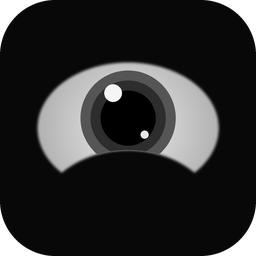
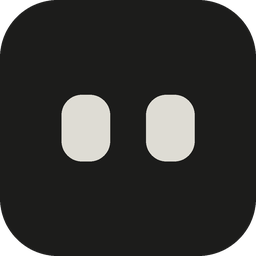
Augen: sichtbares Verschmelzen mit Wurf-Flug, Sonne beim Wetter, = beim Rechnen; gedämpfter, schlichter; neues App-Symbol

diff --git a/index.html b/index.html
@@ -618,7 +618,7 @@
   body.wurf #auge, body.klein.wurf #auge { position:fixed; z-index:20; top:90px; left:50%; width:min(320px,70vw); transform:translateX(-50%); }
   body.wurf::before { display:block; background:var(--bg); opacity:.92; }
   @media (max-width:480px) { #hero #auge { width:150px; } }
-  #wurfanzeige { color:var(--fg); top:282px; font-size:22px; font-weight:600; letter-spacing:0; }
+  #wurfanzeige { color:var(--fg); top:300px; font-size:22px; font-weight:600; letter-spacing:0; }
 </style>
 
 </head>
@@ -1258,7 +1258,7 @@
           if (!zeile.trim()) continue;
           const ev = JSON.parse(zeile);
           if (ev.typ === "start") aktuellerChat = ev.chat_id;
-          else if (ev.typ === "status" && (ev.text === "wetter" || ev.text === "rechnet")) { /* kein Internet-Suchen: kein Kasten */ }
+          else if (ev.typ === "status" && (ev.text === "wetter" || ev.text === "rechnet")) { window.hermesSkill = ev.text; window.hermesDenkt = false; }  // kein Internet-Suchen: kein Kasten, die Augen zeigen das Werkzeug
           else if (ev.typ === "status" && ev.detail !== undefined) {
             schritte++; window.hermesSucht = true;
             statusText(ev.text === "liest" ? "Liest Seiten" : "Sucht im Internet");
@@ -1280,6 +1280,7 @@
             statusText("Denkt nach");
           } else if (ev.typ === "token") {
             window.hermesDenkt = false; window.hermesSucht = false;
+            if (window.hermesSkill) setTimeout(() => { window.hermesSkill = null; }, 900);  // Symbol kurz stehen lassen
             roh += ev.text;
             if (aktiveKette) aktiveKette.rein(ev.text);
             else { inhalt.classList.remove("typing"); zeige(); }
@@ -1312,6 +1313,7 @@
       if (roh) aktualisiere(huelle, roh); else inhalt.textContent = "";
     }
     window.hermesDenkt = false; window.hermesSucht = false;
+    if (window.hermesSkill) setTimeout(() => { window.hermesSkill = null; }, 900);
     beschaeftigt = false;
     sendeStatus();
     eingabe.focus();
@@ -1618,7 +1620,7 @@
   }));
 
   // ---------- Münze und Würfel im Auge ----------
-  const WURF_DAUER = 1900, WURF_ZEIGEN = 2200;  // ms: so lange fliegt es, so lange bleibt das Ergebnis stehen
+  const WURF_DAUER = 2100, WURF_ZEIGEN = 1800;  // ms: so lange fliegt es, so lange bleibt das Ergebnis stehen
   const wurfAnzeige = document.getElementById("wurfanzeige");
   let wurfUhr = [];
   function wurfStarten(art, ergebnis) {
@@ -2017,20 +2019,19 @@
   document.querySelectorAll(".kachel[data-design]").forEach((k) => k.addEventListener("click", () => setzeDesign(k.dataset.design)));
 
   // ---------- Roboter-Augen ----------
-  // Zwei runde Augen als "Gesicht" von Atlas (in der App und später vorne auf der Box). Jede Stimmung setzt Zielwerte,
-  // die Augen gleiten schnell und weich dorthin:
-  //   ruhe    – blinzelt ab und zu, schaut kurz umher, freut sich manchmal
-  //   hoert   – Augen groß und wach, leichtes Pulsieren
-  //   denkt   – schauen nach oben zur Seite, etwas schmaler, ein Auge kleiner (nachdenklich)
-  //   sucht   – schauen schnell hin und her
-  //   spricht – wippen im Rhythmus, leicht fröhlich
-  //   froh    – kurz nach einer Antwort: "^ ^"
-  //   timer   – die Augen verschmelzen zu einer Uhr, deren Restzeit im Uhrzeigersinn abläuft
-  //   wurf    – die Augen verschmelzen zur Münze oder zum Würfel, der geworfen wird, danach teilen sie sich wieder
+  // Zwei schlichte Augen als "Gesicht" von Atlas (in der App und später vorne auf der Box). Stimmungen:
+  //   ruhe    – blinzelt ab und zu, schaut kurz umher, freut sich manchmal ("^ ^")
+  //   hoert   – Augen groß und wach        denkt  – schauen nach oben zur Seite, etwas schmaler
+  //   sucht   – schauen schnell umher       spricht – wippen leicht
+  //   froh    – kurz nach einer Antwort "^ ^"
+  // Für Werkzeuge verschmelzen die Augen sichtbar zu einer Form und teilen sich danach wieder:
+  //   wurf    – Kugel -> Münze/Würfel, wird hochgeworfen, dreht sich und landet
+  //   timer   – Uhr, deren Restzeit im Uhrzeigersinn abläuft
+  //   wetter  – Sonne, die sich langsam dreht      rechnet – Gleichheitszeichen, das pulsiert
   (function () {
     const canvas = document.getElementById("auge");
     const c = canvas.getContext("2d");
-    const W = 320, H = 180, SKALA = 2;
+    const W = 320, H = 200, SKALA = 2;
     canvas.width = W * SKALA; canvas.height = H * SKALA;
     c.scale(SKALA, SKALA);
 
@@ -2046,23 +2047,28 @@
     platzieren();
     new MutationObserver(platzieren).observe(document.body, { attributes: true, attributeFilter: ["class"] });
 
-    let farbe = "#f2f1ec", leuchten = true;
+    // Gedämpftes Weiß mit leichtem Schein (nicht grell); im hellen Design dunkle Augen ohne Schein
+    let farbe = "#d9d7cf", schein = "rgba(255,255,255,.16)";
     window.augeFarbe = () => {
-      farbe = getComputedStyle(document.documentElement).getPropertyValue("--fg").trim() || farbe;
-      leuchten = document.documentElement.dataset.theme !== "hell";
+      const hell = document.documentElement.dataset.theme === "hell";
+      farbe = hell ? "#2b2a26" : "#d9d7cf"; schein = hell ? "transparent" : "rgba(255,255,255,.16)";
     };
     window.augeFarbe();
     const grund = () => getComputedStyle(document.body).backgroundColor;
 
     const ziel = { x: 0, y: 0 }, pos = { x: 0, y: 0 };
     let blinzelStart = -1000, naechstes = performance.now() + 2500;
-    let offen = 1, breite = 1, freude = 0, schief = 0, fusion = 0, naechsterUmblick = 0, naechsteFreude = performance.now() + 12000;
+    let offen = 1, breite = 1, freude = 0, schief = 0, naechsterUmblick = 0, naechsteFreude = performance.now() + 12000;
     const UMHER = [[-1, -.3], [1, -.2], [.7, .5], [-.7, .4], [0, -.6], [1, .1], [-1, .2]];
-    const VERSCHMELZEN = 220;  // ms, bis aus zwei Augen eins geworden ist
+    const REIN = 380, RAUS = 320;  // ms: so lange dauert das Verschmelzen und das Teilen
+    let fusionZiel = 0, fusionWechsel = -1e9, fusionVon = 0, form = "kreis";
     const mix = (a, b, f) => a + (b - a) * f;
+    const weich = (x) => x < 0.5 ? 4 * x * x * x : 1 - Math.pow(-2 * x + 2, 3) / 2;  // langsam - schnell - langsam
 
     function stimmung(t) {
       if (window.hermesWurf) return "wurf";
+      if (window.hermesSkill === "wetter") return "wetter";
+      if (window.hermesSkill === "rechnet") return "rechnet";
       if (window.hermesSucht) return "sucht";
       if (window.hermesSpricht) return "spricht";
       if (window.hermesDenkt) return "denkt";
@@ -2072,129 +2078,147 @@
       return "ruhe";
     }
 
-    function form(x, y, w, h, r) {
-      c.beginPath(); c.roundRect(x - w / 2, y - h / 2, w, h, Math.min(r, w / 2, h / 2));
-    }
+    function rr(x, y, w, h, r) { c.beginPath(); c.roundRect(x - w / 2, y - h / 2, w, h, Math.max(0, Math.min(r, w / 2, h / 2))); }
 
-    function bogen(cx, cy, w, h) {  // "^"
-      const f = (freude - 0.5) * 2;
-      c.lineWidth = w * 0.26; c.lineCap = "round"; c.strokeStyle = farbe;
+    function bogen(cx, cy, w) {  // "^"
+      const f = Math.min(1, (freude - 0.5) * 2);
+      c.lineWidth = w * 0.24; c.lineCap = "round"; c.strokeStyle = farbe;
       c.beginPath();
-      c.moveTo(cx - w * 0.42, cy + h * 0.12 * f + 6);
-      c.quadraticCurveTo(cx, cy - h * 0.42 * f, cx + w * 0.42, cy + h * 0.12 * f + 6);
+      c.moveTo(cx - w * 0.4, cy + 10 * f + 4);
+      c.quadraticCurveTo(cx, cy - 30 * f, cx + w * 0.4, cy + 10 * f + 4);
       c.stroke();
     }
 
-    function uhr(cx, cy) {
-      const tm = window.hermesTimer, rest = tm ? Math.max(0, (tm.ende - Date.now()) / tm.dauer) : 0;
-      c.lineWidth = 5; c.strokeStyle = farbe;
-      c.beginPath(); c.arc(cx, cy, 52, 0, Math.PI * 2); c.stroke();
-      if (rest > 0) {
-        c.fillStyle = farbe; c.beginPath(); c.moveTo(cx, cy);
-        c.arc(cx, cy, 42, -Math.PI / 2, -Math.PI / 2 + rest * Math.PI * 2); c.closePath(); c.fill();
-      }
-    }
-
     function wurfZeichnen(t, cx, cy) {
-      const w = window.hermesWurf, dauer = w.dauer - VERSCHMELZEN;
-      const p = Math.min(1, Math.max(0, (t - w.start - VERSCHMELZEN) / dauer)), brems = 1 - Math.pow(1 - p, 3);
-      c.save(); c.translate(cx, cy);
+      const w = window.hermesWurf, flug = w.dauer - REIN;
+      const p = Math.min(1, Math.max(0, (t - w.start - REIN) / flug));
+      const brems = 1 - Math.pow(1 - p, 3);
+      const hoehe = -Math.sin(Math.min(1, p / 0.8) * Math.PI) * 42;          // hoch und wieder runter
+      const landung = p > 0.8 ? Math.sin(((p - 0.8) / 0.2) * Math.PI) * -6 : 0; // kleiner Hüpfer beim Aufkommen
+      c.save(); c.translate(cx, cy + hoehe + landung);
       if (w.art === "muenze") {
-        const winkel = (1 - Math.pow(1 - p, 2)) * Math.PI * 9, drehung = Math.cos(winkel);
+        const drehung = Math.cos(brems * Math.PI * 9);
         c.scale(1, Math.max(0.06, Math.abs(drehung)));
-        c.fillStyle = farbe; c.beginPath(); c.arc(0, 0, 52, 0, Math.PI * 2); c.fill();
+        c.fillStyle = farbe; c.beginPath(); c.arc(0, 0, 46, 0, Math.PI * 2); c.fill();
         if (p > 0) {
           const seite = drehung < 0 ? w.ergebnis : w.ergebnis === "Kopf" ? "Zahl" : "Kopf";
-          c.shadowBlur = 0; c.fillStyle = grund();
+          c.shadowColor = "transparent"; c.fillStyle = grund();
           if (seite === "Kopf") {
-            c.beginPath(); c.arc(0, -12, 17, 0, Math.PI * 2); c.fill();
-            c.beginPath(); c.ellipse(0, 26, 28, 20, 0, 0, Math.PI * 2); c.fill();
+            c.beginPath(); c.arc(0, -11, 15, 0, Math.PI * 2); c.fill();
+            c.beginPath(); c.ellipse(0, 23, 25, 17, 0, 0, Math.PI * 2); c.fill();
           } else {
-            c.font = "bold 76px Inter Variable, Arial, sans-serif"; c.textAlign = "center"; c.textBaseline = "middle";
+            c.font = "600 66px Inter Variable, Arial, sans-serif"; c.textAlign = "center"; c.textBaseline = "middle";
             c.fillText("1", 0, 4);
           }
         }
       } else {
-        c.rotate(brems * Math.PI * 8);
-        c.fillStyle = farbe; c.beginPath(); c.roundRect(-45, -45, 90, 90, 16); c.fill();
+        c.rotate(brems * Math.PI * 6);
+        c.fillStyle = farbe; c.beginPath(); c.roundRect(-40, -40, 80, 80, 16); c.fill();
         if (p > 0) {
-          const a = 23, punkte = { 1: [[0, 0]], 2: [[-a, -a], [a, a]], 3: [[-a, -a], [0, 0], [a, a]],
+          const a = 20, punkte = { 1: [[0, 0]], 2: [[-a, -a], [a, a]], 3: [[-a, -a], [0, 0], [a, a]],
             4: [[-a, -a], [a, -a], [-a, a], [a, a]], 5: [[-a, -a], [a, -a], [0, 0], [-a, a], [a, a]],
             6: [[-a, -a], [a, -a], [-a, 0], [a, 0], [-a, a], [a, a]] };
-          c.shadowBlur = 0; c.fillStyle = grund();
-          (punkte[p >= 1 ? w.ergebnis : 1 + Math.floor(brems * 30) % 6] || []).forEach(([x, y]) => { c.beginPath(); c.arc(x, y, 9, 0, Math.PI * 2); c.fill(); });
+          c.shadowColor = "transparent"; c.fillStyle = grund();
+          (punkte[p >= 1 ? w.ergebnis : 1 + Math.floor(brems * 24) % 6] || []).forEach(([x, y]) => { c.beginPath(); c.arc(x, y, 8, 0, Math.PI * 2); c.fill(); });
         }
+      }
+      c.restore();
+    }
+
+    function symbol(art, t, cx, cy, auf) {  // auf: 0..1, das Symbol "ploppt" aus der Kugel heraus
+      const sk = 0.7 + 0.3 * auf;
+      c.save(); c.translate(cx, cy); c.scale(sk, sk); c.globalAlpha = auf;
+      c.fillStyle = farbe; c.strokeStyle = farbe; c.lineCap = "round";
+      if (art === "timer") {
+        const tm = window.hermesTimer, rest = tm ? Math.max(0, (tm.ende - Date.now()) / tm.dauer) : 0;
+        c.lineWidth = 5; c.beginPath(); c.arc(0, 0, 46, 0, Math.PI * 2); c.stroke();
+        if (rest > 0) { c.beginPath(); c.moveTo(0, 0); c.arc(0, 0, 36, -Math.PI / 2, -Math.PI / 2 + rest * Math.PI * 2); c.closePath(); c.fill(); }
+      } else if (art === "wetter") {
+        c.beginPath(); c.arc(0, 0, 26, 0, Math.PI * 2); c.fill();
+        c.rotate(t / 2400); c.lineWidth = 7;
+        for (let i = 0; i < 8; i++) { const w = i * Math.PI / 4; c.beginPath(); c.moveTo(Math.cos(w) * 38, Math.sin(w) * 38); c.lineTo(Math.cos(w) * 50, Math.sin(w) * 50); c.stroke(); }
+      } else if (art === "rechnet") {
+        const puls = 1 + Math.sin(t / 160) * 0.06;
+        c.scale(puls, 1);
+        rr(0, -15, 86, 18, 9); c.fill(); rr(0, 15, 86, 18, 9); c.fill();
       }
       c.restore();
     }
 
     function zeichne(t) {
       const s = stimmung(t);
-      if (t > naechstes && fusion < 0.05) {
+      const fusionNoetig = s === "wurf" || s === "timer" || s === "wetter" || s === "rechnet";
+      const fNow = () => fusionZiel ? Math.min(1, fusionVon + (t - fusionWechsel) / REIN) : Math.max(0, fusionVon - (t - fusionWechsel) / RAUS);
+      if ((fusionNoetig ? 1 : 0) !== fusionZiel) { fusionVon = fNow(); fusionZiel = fusionNoetig ? 1 : 0; fusionWechsel = t; }
+      if (fusionNoetig) form = s;
+      const roh = fNow(), f = weich(roh);
+
+      if (t > naechstes && f < 0.02) {
         blinzelStart = t; naechstes = t + 2600 + Math.random() * 3600;
         if (Math.random() < 0.15) naechstes = t + 220;  // manchmal doppelt blinzeln
       }
       const b = t - blinzelStart;
       const lid = b < 130 ? 1 - 0.92 * Math.sin((b / 130) * Math.PI) : 1;
 
-      let zOffen = 1, zBreite = 1, zFreude = 0, zSchief = 0, zFusion = 0;
+      let zOffen = 1, zBreite = 1, zFreude = 0, zSchief = 0;
       if (s === "sucht") {
         zOffen = 0.9;
         if (t > naechsterUmblick) {
           const z = UMHER[Math.floor(Math.random() * UMHER.length)];
-          ziel.x = z[0] * 34; ziel.y = z[1] * 14; naechsterUmblick = t + 300 + Math.random() * 300;
+          ziel.x = z[0] * 30; ziel.y = z[1] * 12; naechsterUmblick = t + 300 + Math.random() * 300;
         }
       } else if (s === "denkt") {
-        zOffen = 0.72; zSchief = 0.18; ziel.x = 22; ziel.y = -16 + Math.sin(t / 360) * 2;
+        zOffen = 0.72; zSchief = 0.18; ziel.x = 20; ziel.y = -14 + Math.sin(t / 360) * 2;
       } else if (s === "hoert") {
-        zOffen = 1.12 + Math.sin(t / 220) * 0.04; zBreite = 1.06; ziel.x = 0; ziel.y = 0;
+        zOffen = 1.1 + Math.sin(t / 220) * 0.04; zBreite = 1.05; ziel.x = 0; ziel.y = 0;
       } else if (s === "spricht") {
-        zOffen = 0.9; zFreude = 0.3; ziel.x = 0; ziel.y = Math.sin(t / 150) * 4;
+        zOffen = 0.92; ziel.x = 0; ziel.y = Math.sin(t / 150) * 3;
       } else if (s === "froh") {
         zFreude = 1; ziel.x = 0; ziel.y = -2;
-      } else if (s === "timer" || s === "wurf") {
-        zFusion = 1; ziel.x = 0; ziel.y = 0;
+      } else if (fusionNoetig) {
+        ziel.x = 0; ziel.y = 0;
       } else {
         if (t > naechsterUmblick) {
           const r = Math.random();
-          ziel.x = r < 0.55 ? 0 : (Math.random() - 0.5) * 44; ziel.y = r < 0.55 ? 0 : (Math.random() - 0.5) * 14;
+          ziel.x = r < 0.55 ? 0 : (Math.random() - 0.5) * 40; ziel.y = r < 0.55 ? 0 : (Math.random() - 0.5) * 12;
           naechsterUmblick = t + 1600 + Math.random() * 2400;
         }
         if (t > naechsteFreude) naechsteFreude = t + 12000 + Math.random() * 10000;
         if (naechsteFreude - t > 10800 && naechsteFreude - t < 12000) zFreude = 1;
       }
-      const k = 0.26;  // wie schnell die Augen ihrem Ziel folgen (höher = flinker)
-      offen += (zOffen - offen) * k;
-      breite += (zBreite - breite) * k;
-      freude += (zFreude - freude) * k;
-      schief += (zSchief - schief) * k * 0.7;
-      fusion += (zFusion - fusion) * 0.3;
-      if (Math.abs(zFusion - fusion) < 0.01) fusion = zFusion;
-      pos.x += (ziel.x - pos.x) * 0.32;
-      pos.y += (ziel.y - pos.y) * 0.32;
+      const k = 0.26;  // wie flink die Augen ihrem Ziel folgen
+      offen += (zOffen - offen) * k; breite += (zBreite - breite) * k;
+      freude += (zFreude - freude) * k; schief += (zSchief - schief) * k * 0.7;
+      pos.x += (ziel.x - pos.x) * 0.32; pos.y += (ziel.y - pos.y) * 0.32;
 
       c.clearRect(0, 0, W, H);
-      c.shadowColor = leuchten ? "rgba(255,255,255,.55)" : "transparent";
-      c.shadowBlur = leuchten ? 22 : 0;
+      c.shadowColor = schein; c.shadowBlur = 10;
+      c.fillStyle = farbe;
       const cx = W / 2, cy = H / 2;
-      const f = fusion, ef = 1 - Math.pow(1 - f, 2);  // weich auslaufend
-      const muenze = s === "wurf" && window.hermesWurf.art === "muenze";
-      // Ziel-Form beim Verschmelzen: Kreis (Münze, Uhr) oder abgerundetes Quadrat (Würfel)
-      const zw = s === "wurf" && !muenze ? 90 : 104, zr = s === "wurf" && !muenze ? 16 : 52;
+      const EW = 58, EH = 78, ABST = 52;  // Augenbreite, -höhe, halber Abstand
+      // Zielform der Kugel: Würfel eckiger, sonst rund
+      const wuerfel = form === "wurf" && window.hermesWurf && window.hermesWurf.art !== "muenze";
+      const D = wuerfel ? 80 : form === "wurf" ? 92 : 84, DR = wuerfel ? 16 : D / 2;
 
-      if (f >= 0.999 && s === "wurf") wurfZeichnen(t, cx, cy);
-      else if (f >= 0.999 && s === "timer") uhr(cx, cy);
-      else if (freude > 0.5 && f < 0.05) {
-        bogen(cx - 62 + pos.x, cy + pos.y, 70 * breite, 92);
-        bogen(cx + 62 + pos.x, cy + pos.y, 70 * breite, 92);
+      if (f >= 1 && s === "wurf") wurfZeichnen(t, cx, cy);
+      else if (f >= 1 && fusionNoetig) {
+        // Kugel "ploppt" zum Symbol: kurz die Kugel, dann das Symbol
+        const auf = Math.min(1, (t - fusionWechsel - REIN) / 160);
+        if (auf < 1) { c.globalAlpha = 1 - auf; c.beginPath(); c.arc(cx, cy, D / 2, 0, Math.PI * 2); c.fill(); c.globalAlpha = 1; }
+        symbol(s, t, cx, cy, Math.max(0, auf));
+      } else if (freude > 0.5 && f < 0.02) {
+        bogen(cx - ABST + pos.x, cy + pos.y, EW * breite);
+        bogen(cx + ABST + pos.x, cy + pos.y, EW * breite);
       } else {
-        const w = mix(70 * breite, zw, ef);
-        const h0 = Math.max(6, 92 * offen * lid);
-        const r = mix(Math.min(70, h0) * 0.42, zr, ef);
-        const abstand = 62 * (1 - ef), px = pos.x * (1 - ef), py = pos.y * (1 - ef);
-        c.fillStyle = farbe;
-        form(cx - abstand + px, cy + py, w, mix(h0 * (1 - schief), zw, ef), r); c.fill();
-        form(cx + abstand + px, cy + py, w, mix(h0 * (1 + schief * 0.4), zw, ef), r); c.fill();
+        // Verschmelzen: Die Augen gleiten zur Mitte, überlappen und werden zu einer Kugel.
+        // Kurz vor dem Ende ein kleiner Wackler (größer, dann zurück), damit man das "Zusammenploppen" sieht.
+        const knall = f > 0.85 ? 1 + Math.sin(((f - 0.85) / 0.15) * Math.PI) * 0.08 : 1;
+        const w = mix(EW * breite, D, f) * knall;
+        const h0 = Math.max(6, EH * offen * lid);
+        const r = mix(Math.min(EW, h0) * 0.42, DR, f);
+        const abst = ABST * (1 - f), px = pos.x * (1 - f), py = pos.y * (1 - f);
+        rr(cx - abst + px, cy + py, w, mix(h0 * (1 - schief), D, f) * knall, r); c.fill();
+        rr(cx + abst + px, cy + py, w, mix(h0 * (1 + schief * 0.4), D, f) * knall, r); c.fill();
       }
       requestAnimationFrame(zeichne);
     }
